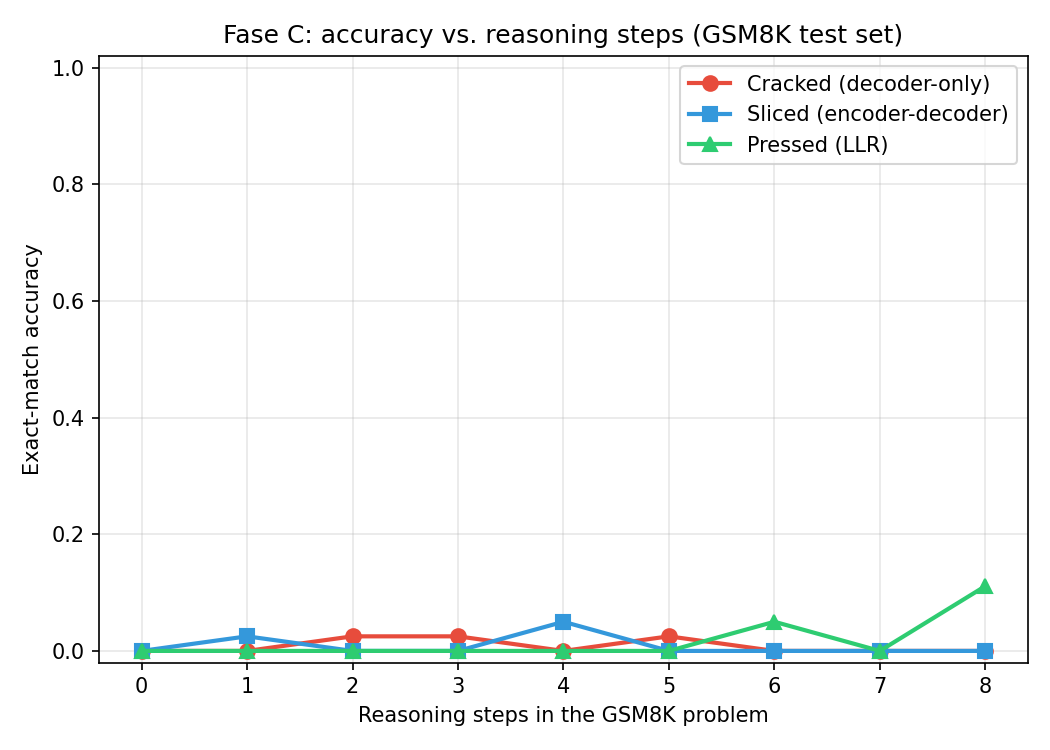
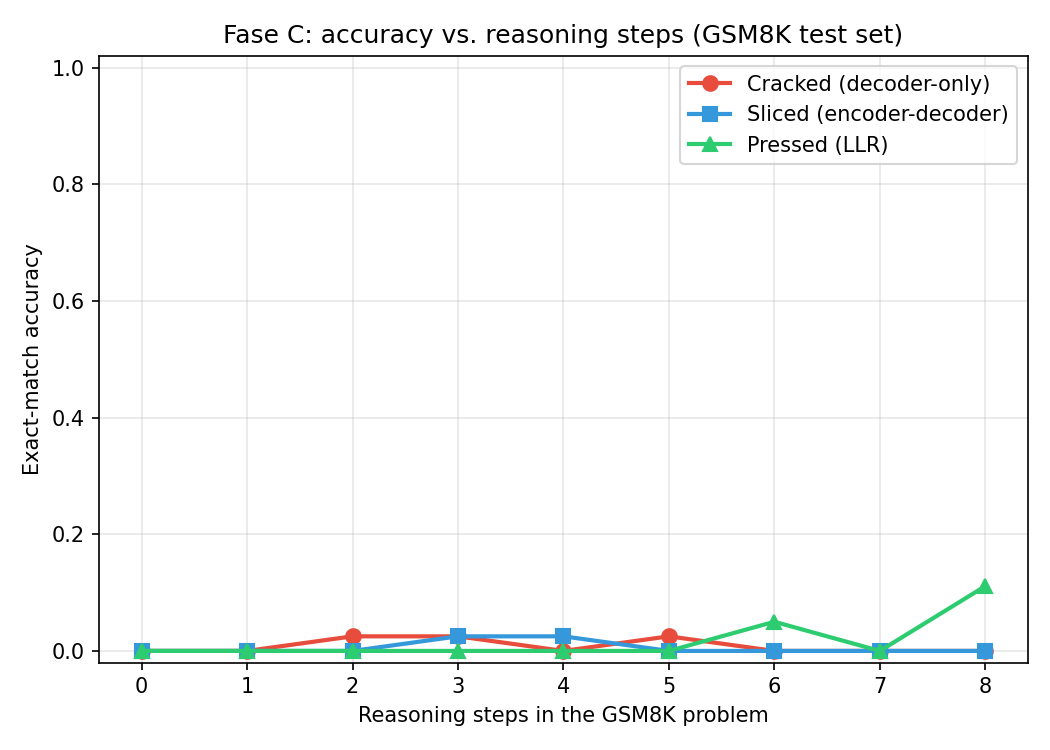
Re-run C.6 items 1/2/3 with fixed Sliced; fix piqa truncation crash
Sliced was retrained from scratch with the decoder-mask fix (commit
2e36ced) and all three C.6 pieces that used its checkpoint were re-run:
GSM8K accuracy-by-steps + efficiency, the 141-example domain eval set, and
lm-evaluation-harness. Cracked/Pressed are unaffected by the bug and were
only reloaded (skip_training=True), not retrained.

Also fixed a real crash found during the lm-eval-harness re-run:
SlicedAdapter didn't truncate the continuation to fit TGT_BLOCK_SIZE, and
piqa's answer choices are full sentences (not single words like lambada's),
so a long enough choice overflowed the decoder's positional-encoding buffer
and crashed the whole run. Now truncated the same way Seq2SeqDataset caps
its own training targets.

Buggy Sliced results archived at
coconut_lab/eval/results/sliced_decoder_mask_bug/ for the record, not as a
valid comparison baseline. Active results are the corrected ones.

Claude-Session: https://claude.ai/code/session_01EstcGy6yUc7ibDrepFXEqx

diff --git a/coconut_lab/eval/lm_eval_adapter.py b/coconut_lab/eval/lm_eval_adapter.py
@@ -146,12 +146,19 @@ class SlicedAdapter(LM):
         self._device = device
         self.bos_id = tokenizer.encode(EOT_TOKEN)[0]
         self.src_block_size = sliced_mod.SRC_BLOCK_SIZE
+        self.tgt_block_size = sliced_mod.TGT_BLOCK_SIZE
 
     @torch.no_grad()
     def _loglikelihood_one(self, context: str, continuation: str) -> tuple[float, bool]:
         cont_ids = self.tokenizer.encode(continuation)
         if not cont_ids:
             return 0.0, True
+        # Some harness tasks (e.g. piqa's answer choices) are full sentences,
+        # not single words -- Sliced's decoder window is fixed-size, so an
+        # over-long continuation has to be truncated rather than crash the
+        # whole eval run. Matches Seq2SeqDataset's own tgt_block_size budget.
+        if len(cont_ids) > self.tgt_block_size:
+            cont_ids = cont_ids[:self.tgt_block_size]
 
         src_ids = self.tokenizer.encode(context)[:self.src_block_size] if context else [self.bos_id]
         src_ids = src_ids + [self.bos_id] * (self.src_block_size - len(src_ids))

diff --git a/coconut_lab/eval/results/sliced_decoder_mask_bug/README.md b/coconut_lab/eval/results/sliced_decoder_mask_bug/README.md
@@ -1,0 +1,16 @@
+# Archived: results affected by the Sliced decoder-mask bug
+
+These C.6 results (GSM8K accuracy-by-steps, efficiency, and the 141-example
+domain eval set) were produced with a Sliced checkpoint trained under a real
+bug: `coconut_lab/models/sliced.py::train_steps` masked the decoder's
+position-0 BOS token as if it were padding (BOS and pad share the same
+token id in this project's BPE vocab), leaving the first self-attention
+query with zero valid keys under causal masking. Sliced could never learn
+to predict a response's first token from real context -- every generation
+started broken (e.g. "ue........." instead of "blue.").
+
+Fixed in commit `2e36ced` (`tgt_pad_mask[:, 0] = False`). Sliced was
+retrained from scratch with the fix and all three affected C.6 pieces were
+re-run; the active results in `coconut_lab/eval/results/` are the corrected
+ones. These files are kept only as a record of the bug's real impact, not
+as a valid comparison baseline.
